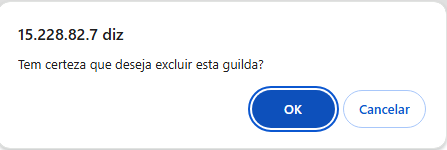
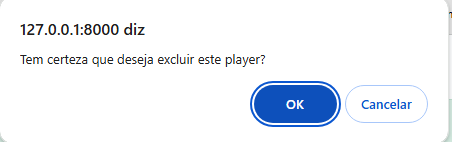
fix: ajustando Readme e alerta de exclusao de player.

diff --git a/resources/views/home.blade.php b/resources/views/home.blade.php
@@ -89,7 +89,7 @@
                                     <form action="{{ route('player.destroy', $player->id) }}" method="POST" style="display: inline-block;">
                                         @csrf
                                         @method('DELETE')
-                                        <button type="submit" class="btn btn-sm btn-danger" onclick="return confirm('Tem certeza que deseja excluir esta guilda?')">Excluir</button>
+                                        <button type="submit" class="btn btn-sm btn-danger" onclick="return confirm('Tem certeza que deseja excluir este player?')">Excluir</button>
                                     </form>
                                 @endif
                             </td>

diff --git a/README.md b/README.md
@@ -131,114 +131,142 @@ OBS(Irá aparecer a opção de criar migrations, digitar YES /  Irá aparecer a 
 
 ## USO
 - Acessando a tela principal, você será redirecionado para a tela de Login, basta informar email e senha.
+![login](https://github.com/FlavianoMatozinhos/teste_yetz/blob/main/public/img/login.PNG?raw=true)
 
 
 
-- Caso não tenha usuario cadastrado, ir através da barra de navegação e clicar em Criar conta, e assim que criar o usuario, será redirecionado para a tela de login.
+- Caso não tenha usuario cadastro, ir através da barra de navegação e clicar em Register, e assim que criar o usuario, será redirecionado para a tela de login.
+![register](https://github.com/FlavianoMatozinhos/teste_yetz/blob/main/public/img/cadastro.PNG?raw=true)
 
 
 
 - Após feito login, será redirecionado para a pagina de Home, que só é acessivel através do Login.
 
 
-
-
 ## MESTRE
 
-- Tela de Home
+-Tela de Home
+![home_mestre](https://github.com/FlavianoMatozinhos/teste_yetz/blob/main/public/img/Home.PNG?raw=true)
 
 
 
 - Clicando em Criar Guilda na tela de HOME, você terá acesso para cadastrar Guildas ao seu sistema.
+![mestre_criar_guilda_view](https://github.com/FlavianoMatozinhos/teste_yetz/blob/main/public/img/Criar_Guilda.PNG?raw=true)
 
 
 
 - Tela de Cadastro da Guilda, sendo obrigatorios o nome, minimo e maximo de players.
+![mestre_criar_guilda](https://github.com/FlavianoMatozinhos/teste_yetz/blob/main/public/img/Criar_Guilda%202.PNG?raw=true)
 
 
 
 - Clicando em Balancear Guildas na tela de HOME, o sistema ira balancear os Players que estao confirmados para participar atraves do seu XP.
+![mestre_balancear](https://github.com/FlavianoMatozinhos/teste_yetz/blob/main/public/img/Balancear_Guilda.PNG?raw=true)
 
 
 
 - Clicando em Excluir um player na tela de HOME, aparecerá um alerta perguntando se deseja mesmo fazer essa exclusão.
+![mestre_excluir_player_view](https://github.com/FlavianoMatozinhos/teste_yetz/blob/main/public/img/Excluir_Player_1.PNG?raw=true)
+![mestre_excluir_player_alert]()
 
 
 
-- Clicando em Visualizar um player na tela de HOME, sera redirecionado para a tela do Player e com suas respectivas informacoes.
+- Clicando em Visualizar uma player na tela de HOME, sera redirecionado para a tela do Player e com suas respectivas informacoes.
+![mestre_player_view]()
 
 
 
 - Tela de Visualizacao do Player
+![mestre_player]()
 
 
 
 - Dentro da Tela de Visualizacao do Player e possivel Editar as informacoes do jogador
+![mestre_player_edit_view]()
 
 
 
 - Tela de Editar o Player
+![mestre_player_edit]()
 
 
 
 - Clicando em Excluir um Guilda na tela de HOME, aparecerá um alerta perguntando se deseja mesmo fazer essa exclusão.
+![mestre_excluir_guilda_view]()
+![mestre_excluir_guilda_alert]()
 
 
 
 - Clicando em Visualizar uma Guilda na tela de HOME, sera redirecionado para a tela da Guilda e com suas respectivas informacoes.
+![mestre_guilda_view]()
 
 
 
 - Tela de Visualizacao da Guilda
+![mestre_guilda]()
 
 
 
 - Clicando em Editar uma Guilda na tela de HOME, sera redirecionado para a tela de Editar Guilda.
+![mestre_guilda_edit_view]()
 
 
 
 - Tela de Editar Guilda
+![mestre_guilda_edit]()
 
 
 ## Player
 
 - Tela de Home
+![home_player]()
 
 
 
 - Clicando em Visualizar na tabela de Guildas
+![player_guilda_view]()
 
 
 
 - Tela de Visulizar Guilda, e possivel visualizar todos os jogadores que estao nesta guilda e suas respectivas classes
+![player_guilda]()
 
 
 
 -  Clicando em Visualizar na tabela de Players
+![player_player_view]()
 
 
 
 - Tela de Visulizar Player, e possivel Visualizar o seu perfil
+![player_player]()
 
 
 
 - Tela de Visulizar Player, e possivel Editar o seu perfil, clicando em *Editar Jogador*
+![player_player_edit_view]()
 
 
 
 - Tela de Editar Player
+![player_player_edit]()
 
 
 
 - Dentro da *Tela de Home*, na tabela de *Players*, e possivel confirmar se voce quer entrar em uma Guilda ou Nao.
+![player_player_confirm]()
 
 
 
 - Dentro da *Tela de Home*, na tabela de *Players*, caso ja esteja confirmado, tambem e possivel retirar essa confirmacao.
-  
+  ![player_player_retirar_confirm]()
+
 
 
 - Para fazer Logout, basta clicar na barra de navegação "Logout"
+![logout]()
+
+
 
 
 ## CURLS da API
